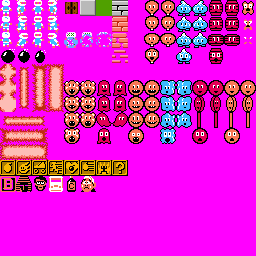
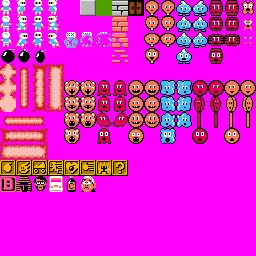
- Fix some bugs. - Update level 2,3,4,5.

Changed region(s): [[0.5, 0.0, 0.5625, 0.0625], [0.25, 0.0, 0.3125, 0.0625]]

diff --git a/src/Bomberman/level/Level.java b/src/Bomberman/level/Level.java
@@ -8,7 +8,7 @@ import Bomberman.Entities.Box.Item.SpeedItem;
 import Bomberman.Entities.Box.Portal;
 import Bomberman.Entities.Box.Wall;
 import Bomberman.Entities.Dynamic.Bomber;
-import Bomberman.Entities.Dynamic.Enemy.Balloon;
+import Bomberman.Entities.Dynamic.Enemy.*;
 import Bomberman.Entities.OverlaidEntity;
 import Bomberman.Game;
 import Bomberman.GameContainer;
@@ -68,6 +68,22 @@ public class Level {
                         gameContainer.addEntity(pos, new Grass(x, y));
                         gameContainer.addDynamicEntity(new Balloon(Unit.posToPixel(x), Unit.posToPixel(y) + Game.BOX_SIZE, gameContainer));
                         break;
+                    case '2':
+                        gameContainer.addEntity(pos, new Grass(x, y));
+                        gameContainer.addDynamicEntity(new Oneal(Unit.posToPixel(x), Unit.posToPixel(y) + Game.BOX_SIZE, gameContainer));
+                        break;
+                    case '3':
+                        gameContainer.addEntity(pos, new Grass(x, y));
+                        gameContainer.addDynamicEntity(new Doll(Unit.posToPixel(x), Unit.posToPixel(y) + Game.BOX_SIZE, gameContainer));
+                        break;
+                    case '4':
+                        gameContainer.addEntity(pos, new Grass(x, y));
+                        gameContainer.addDynamicEntity(new Minvo(Unit.posToPixel(x), Unit.posToPixel(y) + Game.BOX_SIZE, gameContainer));
+                        break;
+                    case '5':
+                        gameContainer.addEntity(pos, new Grass(x, y));
+                        gameContainer.addDynamicEntity(new Kondoria(Unit.posToPixel(x), Unit.posToPixel(y) + Game.BOX_SIZE, gameContainer));
+                        break;
                     case 'p':
                         gameContainer.addDynamicEntity(new Bomber(Unit.posToPixel(x), Unit.posToPixel(y) + Game.BOX_SIZE, gameContainer));
                         gameContainer.addEntity(pos, new Grass(x, y));
@@ -82,7 +98,7 @@ public class Level {
                         gameContainer.addEntity(pos, new OverlaidEntity(x, y, new Brick(x, y), new SpeedItem(x, y), new Grass(x, y)));
                         break;
                     case 'x':
-                        gameContainer.addEntity(pos, new OverlaidEntity(x, y, new Brick(x, y), new Portal(x, y), new Grass(x, y)));
+                        gameContainer.addEntity(pos, new OverlaidEntity(x, y, new Brick(x, y), new Portal(x, y,gameContainer), new Grass(x, y)));
                         break;
                     case '*':
                         gameContainer.addEntity(pos, new OverlaidEntity(x, y, new Brick(x, y), new Grass(x, y)));

diff --git a/src/Bomberman/GameContainer.java b/src/Bomberman/GameContainer.java
@@ -3,6 +3,7 @@ package Bomberman;
 import Bomberman.Entities.Bomb.Bomb;
 import Bomberman.Entities.Dynamic.Bomber;
 import Bomberman.Entities.Dynamic.DynamicEntity;
+import Bomberman.Entities.Dynamic.Enemy.Enemy;
 import Bomberman.Entities.Entity;
 import Bomberman.Keyboard.Keyboard;
 import Bomberman.graphics.Screen;
@@ -23,6 +24,7 @@ public class GameContainer {
     public List<DynamicEntity> dynamicEntities = new ArrayList<>();
     public List<Bomb> bombs = new ArrayList<>();
     protected boolean[] plantedBomb;
+    protected int[] existedFlame;
 
     public GameContainer(Game game, Keyboard input, Screen screen) {
         this.game = game;
@@ -58,9 +60,10 @@ public class GameContainer {
 
     public void changeLevel(int num) {
         try {
-            level = new Level("levels/Level" + num + ".txt", this);
+            level = new Level("levels/Level" + 1 + ".txt", this);
             entities = new Entity[level.getHeight() * level.getWidth()];
             plantedBomb = new boolean[level.getHeight() * level.getWidth()];
+            existedFlame = new int[level.getHeight() * level.getWidth()];
             level.createEntities();
         } catch (IOException e) {
         }
@@ -78,7 +81,12 @@ public class GameContainer {
         bombs.add(b);
         plantedBomb[Unit.pixelToPos(b.getX()) + Unit.pixelToPos(b.getY()) * level.getWidth()] = true;
     }
-
+    public void setExistedFlame(int posX,int posY,int add) {
+        existedFlame[posX + posY * level.getWidth()] += add;
+    }
+    public int getExistedFlame(int posX,int posY) {
+        return existedFlame[posX + posY * level.getWidth()];
+    }
     void update() {
         updateEntities();
         updateDynamic();
@@ -138,6 +146,14 @@ public class GameContainer {
             }
         }
         return null;
+    }
+    public boolean allEnemiesDead() {
+        int res = 0;
+        for (DynamicEntity dynamicEntity: dynamicEntities) {
+            if(dynamicEntity instanceof Enemy)
+                ++res;
+        }
+        return (res == 0);
     }
 
 }

diff --git a/src/Bomberman/Entities/Dynamic/Bomber.java b/src/Bomberman/Entities/Dynamic/Bomber.java
@@ -1,6 +1,7 @@
 package Bomberman.Entities.Dynamic;
 
 import Bomberman.Entities.Bomb.Bomb;
+import Bomberman.Entities.Bomb.Flame;
 import Bomberman.Entities.Dynamic.Enemy.Enemy;
 import Bomberman.Entities.Entity;
 import Bomberman.Game;
@@ -17,7 +18,7 @@ public class Bomber extends DynamicEntity {
     protected int hearts;
     protected int numBomb = 2;
     protected int numPlantedBomb = 0;
-    protected int flameSize = 1;
+    protected int flameSize = 3;
     protected int score;
     protected Keyboard input;
     protected int delayBombTime;
@@ -119,6 +120,10 @@ public class Bomber extends DynamicEntity {
             b = bombList.next();
             if (b.isRemoved()) {
                 numPlantedBomb--;
+                for(Flame flame: b.getFlameList()) {
+                    if(flame.posX() == b.posX() && flame.posY() == b.posY()) continue;
+                    gameContainer.setExistedFlame(flame.posX(),flame.posY() + 1,-1);
+                }
                 bombList.remove();
             }
         }
@@ -127,7 +132,7 @@ public class Bomber extends DynamicEntity {
     @Override
     public boolean collide(Entity e) {
         if(e instanceof Bomb) {
-            dead = true;
+//            dead = true;
             return true;
         }
 

diff --git a/src/Bomberman/Entities/Dynamic/Enemy/Kondoria.java b/src/Bomberman/Entities/Dynamic/Enemy/Kondoria.java
@@ -5,10 +5,10 @@ import Bomberman.GameContainer;
 import Bomberman.graphics.Sprite;
 
 
-public class Oneal extends Enemy {
+public class Kondoria extends Enemy {
 
-    public Oneal(int x, int y, GameContainer gameContainer) {
-        super(x, y,Sprite.oneal_dead);
+    public Kondoria(int x, int y, GameContainer gameContainer) {
+        super(x, y,Sprite.kondoria_dead);
         this.gameContainer = gameContainer;
         this.speed = 0.5;
         this.steps = Game.BOX_SIZE * 1.0 / speed;
@@ -19,16 +19,16 @@ public class Oneal extends Enemy {
         int _frame = (frame / 15) % 3;
         switch (direction) {
             case 0:
-                sprite = Sprite.oneal_right[_frame];
+                sprite = Sprite.kondoria_right[_frame];
                 break;
             case 1:
-                sprite = Sprite.oneal_right[_frame];
+                sprite = Sprite.kondoria_right[_frame];
                 break;
             case 2:
-                sprite = Sprite.oneal_left[_frame];
+                sprite = Sprite.kondoria_left[_frame];
                 break;
             case 3:
-                sprite = Sprite.oneal_left[_frame];
+                sprite = Sprite.kondoria_left[_frame];
                 break;
         }
     }

diff --git a/src/Bomberman/Entities/Dynamic/Enemy/Minvo.java b/src/Bomberman/Entities/Dynamic/Enemy/Minvo.java
@@ -5,10 +5,10 @@ import Bomberman.GameContainer;
 import Bomberman.graphics.Sprite;
 
 
-public class Oneal extends Enemy {
+public class Minvo extends Enemy {
 
-    public Oneal(int x, int y, GameContainer gameContainer) {
-        super(x, y,Sprite.oneal_dead);
+    public Minvo(int x, int y, GameContainer gameContainer) {
+        super(x, y,Sprite.minvo_dead);
         this.gameContainer = gameContainer;
         this.speed = 0.5;
         this.steps = Game.BOX_SIZE * 1.0 / speed;
@@ -19,16 +19,16 @@ public class Oneal extends Enemy {
         int _frame = (frame / 15) % 3;
         switch (direction) {
             case 0:
-                sprite = Sprite.oneal_right[_frame];
+                sprite = Sprite.minvo_right[_frame];
                 break;
             case 1:
-                sprite = Sprite.oneal_right[_frame];
+                sprite = Sprite.minvo_right[_frame];
                 break;
             case 2:
-                sprite = Sprite.oneal_left[_frame];
+                sprite = Sprite.minvo_left[_frame];
                 break;
             case 3:
-                sprite = Sprite.oneal_left[_frame];
+                sprite = Sprite.minvo_left[_frame];
                 break;
         }
     }

diff --git a/src/Bomberman/Entities/Bomb/Bomb.java b/src/Bomberman/Entities/Bomb/Bomb.java
@@ -106,15 +106,20 @@ public class Bomb extends Entity {
             if (direction == 1) posX++;
             if (direction == 2) posY++;
             if (direction == 3) posX--;
-            if (i == flameMaxSize)
+
+            if (i == flameMaxSize && gameContainer.getExistedFlame(posX,posY) == 0)
                 flameList.add(new Flame(Unit.posToPixel(posX), Unit.posToPixel(posY), direction, true));
             else flameList.add(new Flame(Unit.posToPixel(posX), Unit.posToPixel(posY), direction, false));
+            gameContainer.setExistedFlame(posX,posY ,1);
         }
     }
-
     private void loadSprite() {
         int _frame = (frame / 10) % 3;
         sprite = Sprite.bomb[_frame];
+    }
+
+    public List<Flame> getFlameList() {
+        return flameList;
     }
 
     @Override
@@ -122,7 +127,7 @@ public class Bomb extends Entity {
         if (e instanceof Bomber) {
             double diffX = x - e.getX();
             double diffY = y - e.getY() + sprite.SIZE;
-            return (diffX >= -15 && diffX <= 10 && diffY <= 15 && diffY >= -11);
+            return (diffX >= -15 && diffX <= 10 && diffY <= 14 && diffY >= -12);
         }
         if (e instanceof Bomb) {
             timeToExplode = 0;

diff --git a/src/Bomberman/Entities/Dynamic/Enemy/Doll.java b/src/Bomberman/Entities/Dynamic/Enemy/Doll.java
@@ -5,10 +5,10 @@ import Bomberman.GameContainer;
 import Bomberman.graphics.Sprite;
 
 
-public class Oneal extends Enemy {
+public class Doll extends Enemy {
 
-    public Oneal(int x, int y, GameContainer gameContainer) {
-        super(x, y,Sprite.oneal_dead);
+    public Doll(int x, int y, GameContainer gameContainer) {
+        super(x, y,Sprite.doll_dead);
         this.gameContainer = gameContainer;
         this.speed = 0.5;
         this.steps = Game.BOX_SIZE * 1.0 / speed;
@@ -19,16 +19,16 @@ public class Oneal extends Enemy {
         int _frame = (frame / 15) % 3;
         switch (direction) {
             case 0:
-                sprite = Sprite.oneal_right[_frame];
+                sprite = Sprite.doll_right[_frame];
                 break;
             case 1:
-                sprite = Sprite.oneal_right[_frame];
+                sprite = Sprite.doll_right[_frame];
                 break;
             case 2:
-                sprite = Sprite.oneal_left[_frame];
+                sprite = Sprite.doll_left[_frame];
                 break;
             case 3:
-                sprite = Sprite.oneal_left[_frame];
+                sprite = Sprite.doll_left[_frame];
                 break;
         }
     }

diff --git a/src/Bomberman/Entities/Box/Portal.java b/src/Bomberman/Entities/Box/Portal.java
@@ -1,15 +1,31 @@
 package Bomberman.Entities.Box;
 
+import Bomberman.Entities.Dynamic.Bomber;
 import Bomberman.Entities.Entity;
+import Bomberman.GameContainer;
 import Bomberman.graphics.Sprite;
 
 public class Portal extends Box {
-    public Portal(int x, int y) {
+    public Portal(int x, int y, GameContainer gameContainer) {
         super(x, y);
         sprite = Sprite.portal;
+        this.gameContainer = gameContainer;
     }
     @Override
     public boolean collide(Entity e) {
-        return true;
+
+        if(e instanceof Bomber) {
+
+            if(!gameContainer.allEnemiesDead())
+                return false;
+
+//            if(e.posX() == getX() && e.posY() == getY()) {
+//                if(gameContainer.allEnemiesDead())
+//            }
+
+            return true;
+        }
+
+        return false;
     }
 }

diff --git a/src/Bomberman/Entities/Dynamic/Enemy/Enemy.java b/src/Bomberman/Entities/Dynamic/Enemy/Enemy.java
@@ -15,6 +15,7 @@ public abstract class Enemy extends DynamicEntity {
 
     public Enemy(double x, double y, Sprite deadSprite) {
         super(x, y);
+        this.deadTime = 60;
         this.deadSprite = deadSprite;
     }
 
@@ -37,9 +38,9 @@ public abstract class Enemy extends DynamicEntity {
     public void render(Screen screen) {
         if (dead) {
             sprite = deadSprite;
-            if(deadTime <= 21) sprite = Sprite.mob_dead[0];
-            if(deadTime <= 14) sprite = Sprite.mob_dead[1];
-            if(deadTime <= 7) sprite = Sprite.mob_dead[2];
+            if(deadTime <= 30) sprite = Sprite.mob_dead[0];
+            if(deadTime <= 20) sprite = Sprite.mob_dead[1];
+            if(deadTime <= 10) sprite = Sprite.mob_dead[2];
         } else {
             loadSprite();
         }

diff --git a/src/Bomberman/graphics/Sprite.java b/src/Bomberman/graphics/Sprite.java
@@ -45,7 +45,7 @@ public class Sprite {
     public static Sprite grass = new Sprite(16, 6, 0, SpriteLoader.origin);
     public static Sprite brick = new Sprite(16, 7, 0, SpriteLoader.origin);
     public static Sprite wall = new Sprite(16, 5, 0, SpriteLoader.origin);
-    public static Sprite portal = new Sprite(16, 4, 0, SpriteLoader.origin);
+    public static Sprite portal = new Sprite(16, 8, 0, SpriteLoader.origin);
     public static Sprite[] broken_brick = new Sprite[3];
 
     public static Sprite speedItem = new Sprite(16, 2, 10, SpriteLoader.origin);

diff --git a/src/Bomberman/Entities/Bomb/Flame.java b/src/Bomberman/Entities/Bomb/Flame.java
@@ -1,6 +1,7 @@
 package Bomberman.Entities.Bomb;
 
 import Bomberman.Entities.Entity;
+import Bomberman.GameContainer;
 import Bomberman.graphics.Screen;
 import Bomberman.graphics.Sprite;
 
@@ -9,7 +10,7 @@ public class Flame extends Entity {
     protected int direction;
     protected int frame = 0;
 
-    public Flame(double x, double y, int direction,boolean last){
+    public Flame(double x, double y, int direction, boolean last){
         super(x,y);
         this.direction = direction;
         this.last = last;

diff --git a/src/Bomberman/graphics/Screen.java b/src/Bomberman/graphics/Screen.java
@@ -25,7 +25,7 @@ public class Screen {
             int yy = v + y;
             for (int u = 0; u < entity.getSprite().getSize(); u++) {
                 int xx = u + x;
-                if (yy < 0 || yy >= HEIGHT  || xx >= WIDTH)
+                if (yy < 0 || yy >= HEIGHT  || xx >= WIDTH || xx < -entity.getSprite().getSize())
                     break;
                 if (xx < 0) xx = 0;
                 int color = entity.getSprite().getPixel(u + v * entity.getSprite().getSize());
